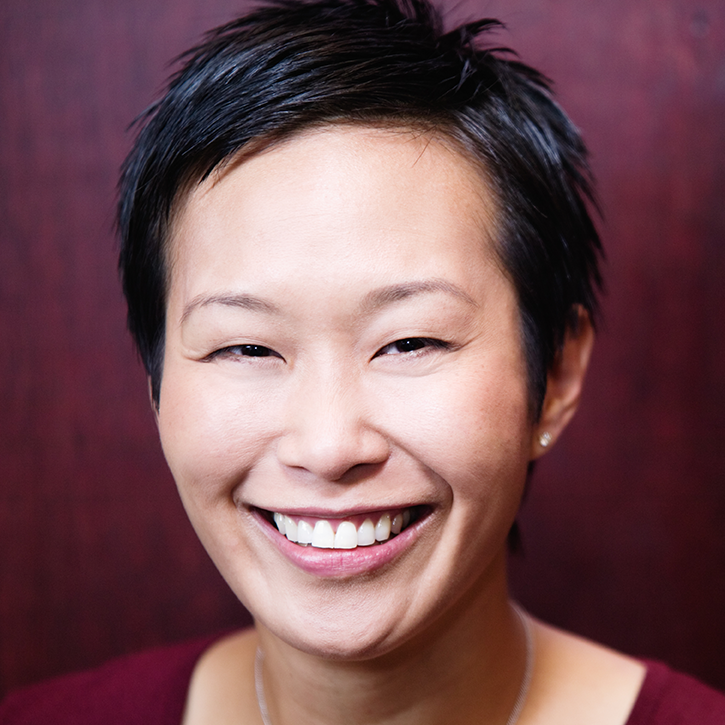
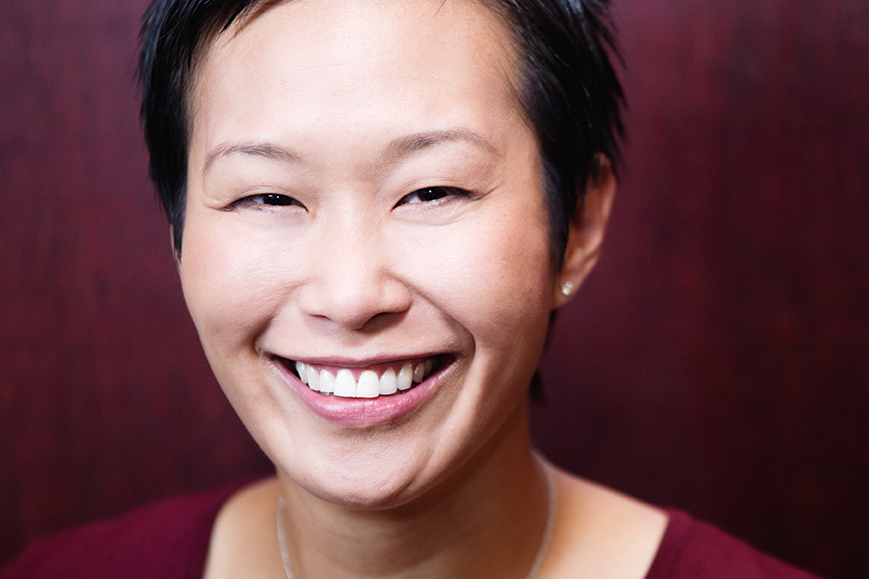
making the desktop view more responsive

diff --git a/src/app/shared/profile.component/profile.component.scss b/src/app/shared/profile.component/profile.component.scss
@@ -1,6 +1,6 @@
 .grid-container {
   display: grid;
-  grid: 5vh repeat(6, 10vh) / repeat(11, 1fr);
+  grid: 5vh repeat(6, 10vh) / repeat(12, 1fr);
   justify-items: center;
   margin-right: 10px;
   margin-left: 10px;
@@ -9,11 +9,11 @@
 }
 
 .name-item {
-  grid-area: 2 / 4 / 3 / 6;
+  grid-area: 2 / 4 / 3 / 7;
 }
 
 .image-item {
-  grid-area: 3 / 4 / 6 / 6;
+  grid-area: 3 / 4 / 6 / 7;
   height: 100%;
   width: 100%;
   overflow: hidden;
@@ -31,15 +31,15 @@
 }
 
 .review-item {
-  grid-area: 6 / 2 / 8 / 6;
+  grid-area: 6 / 2 / 8 / 7;
 }
 
 .personal-item {
-  grid-area: 2 / 6 / 8 / 8;
+  grid-area: 2 / 7 / 8 / 9;
 }
 
 .schedule-item {
-  grid-area: 2 / 8 / 8 / 11;
+  grid-area: 2 / 9 / 8 / 12;
 }
 
 ngb-datepicker {

diff --git a/src/app/shared/profile.component/profile.component.html b/src/app/shared/profile.component/profile.component.html
@@ -13,8 +13,6 @@
     <img class="vertical-bg-image" src="../../../assets/images/orange_dot_bg.png">
     <div class="white-overlay"></div>
     <div class="panel-text panel-padding">
-      <h5 class="text-center">Personal</h5>
-      <br>
       <h5>LinkedIn Profile</h5>
       <p>{{user.linkedIn_profile}}</p>
       <h5>Description</h5>
@@ -33,8 +31,6 @@
     <img class="vertical-bg-image" src="../../../assets/images/green_dot_bg.png">
     <div class="white-overlay"></div>
     <div class="panel-text panel-padding">
-      <h5 class="text-center">Skills</h5>
-      <br>
       <h5>Languages</h5>
       <p *ngFor="let language of user.languages">
         {{language}}

diff --git a/src/app/shared/session.component/session.component.scss b/src/app/shared/session.component/session.component.scss
@@ -36,11 +36,11 @@ img {
 }
 
 #name-item {
-  grid-area: 2 / 4 / 3 / 7;
+  grid-area: 2 / 3 / 3 / 7;
 }
 
 #image-item {
-  grid-area: 3 / 4 / 5 / 7;
+  grid-area: 3 / 3 / 5 / 7;
   border: 3px solid black;
   width: 100%;
   height: calc(40vh + 10px);
@@ -52,18 +52,18 @@ img {
 }
 
 #user-image {
-  width: 100%;
-  height: auto;
+  height: 100%;
+  width: auto;
   grid-area: 1 / 1 / end / end;
 }
 
 #personal-item {
-  grid-area: 3 / 7 / 5 / 10;
+  grid-area: 3 / 7 / 5 / 11;
   align-self: end;
 }
 
 #button-item {
-  grid-area: 5 / 7 / 6 / 10;
+  grid-area: 5 / 7 / 6 / 11;
   width: 100%;
 }
 

diff --git a/src/app/shared/videochat.component/videochat.component.scss b/src/app/shared/videochat.component/videochat.component.scss
@@ -5,7 +5,7 @@
 
 .bg-image {
   height: 60vh;
-  grid-area: 2 / 4 / 12 / 10;
+  grid-area: 2 / 3 / 12 / 11;
   display: grid;
   grid: repeat(12, 1fr) / repeat(12, 1fr);
   background-image: url("../../../assets/images/red_star_bg.png");
@@ -61,6 +61,7 @@
 }
 
 .chat-text {
+  justify-self: start;
   grid-area: 1 / 1 / end / end;
   margin-top: 6vh;
   margin-left: 5vh;

diff --git a/src/app/shared/message-list.component/message-list.component.scss b/src/app/shared/message-list.component/message-list.component.scss
@@ -15,8 +15,8 @@
 }
 
 .card-img {
-  width: 100%;
-  height: auto;
+  width: auto;
+  height: 100%;
   grid-area: 1 / 1 / end / end;
 }
 

diff --git a/src/app/shared/sessions-list.component/sessions-list.component.scss b/src/app/shared/sessions-list.component/sessions-list.component.scss
@@ -15,8 +15,8 @@
 }
 
 .card-img {
-  width: 100%;
-  height: auto;
+  width: auto;
+  height: 100%;
   grid-area: 1 / 1 / end / end;
 }
 

diff --git a/src/app/shared/user-list.component/user-list.component.scss b/src/app/shared/user-list.component/user-list.component.scss
@@ -15,8 +15,8 @@
 }
 
 .card-img {
-  width: 100%;
-  height: auto;
+  width: auto;
+  height: 100%;
   grid-area: 1 / 1 / end / end;
 }
 
